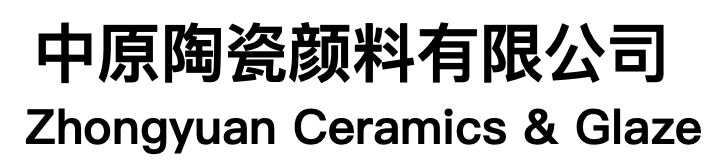
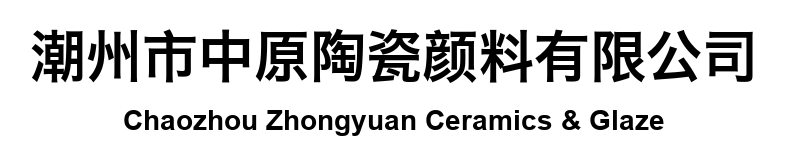
feat: 标题优化

diff --git a/index_cn.html b/index_cn.html
@@ -1,7 +1,7 @@
 <!DOCTYPE HTML>
 <html lang="ch">
 <head>
-    <title>中原陶瓷颜料有限公司</title>
+    <title>潮州市中原陶瓷颜料有限公司</title>
     <meta charset="utf-8">
     <meta http-equiv="X-UA-Compatible" content="IE=edge">
     <meta name="viewport" content="width=device-width, initial-scale=1">

diff --git a/products_cn.html b/products_cn.html
@@ -1,7 +1,7 @@
 <!DOCTYPE HTML>
 <html lang="ch">
 <head>
-    <title>中原陶瓷颜料有限公司</title>
+    <title>潮州市中原陶瓷颜料有限公司</title>
     <meta charset="utf-8">
     <meta http-equiv="X-UA-Compatible" content="IE=edge">
     <meta name="viewport" content="width=device-width, initial-scale=1">
